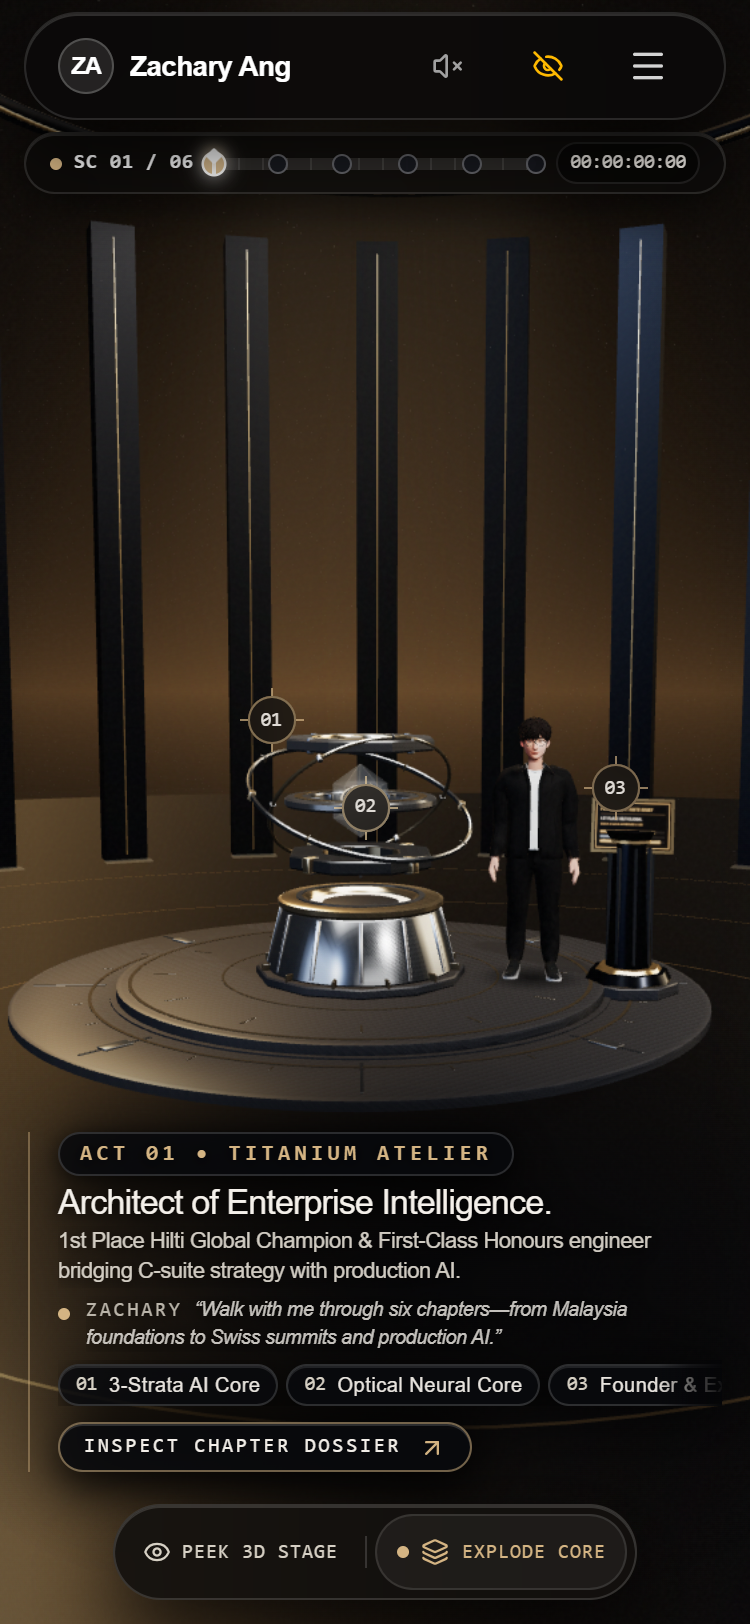
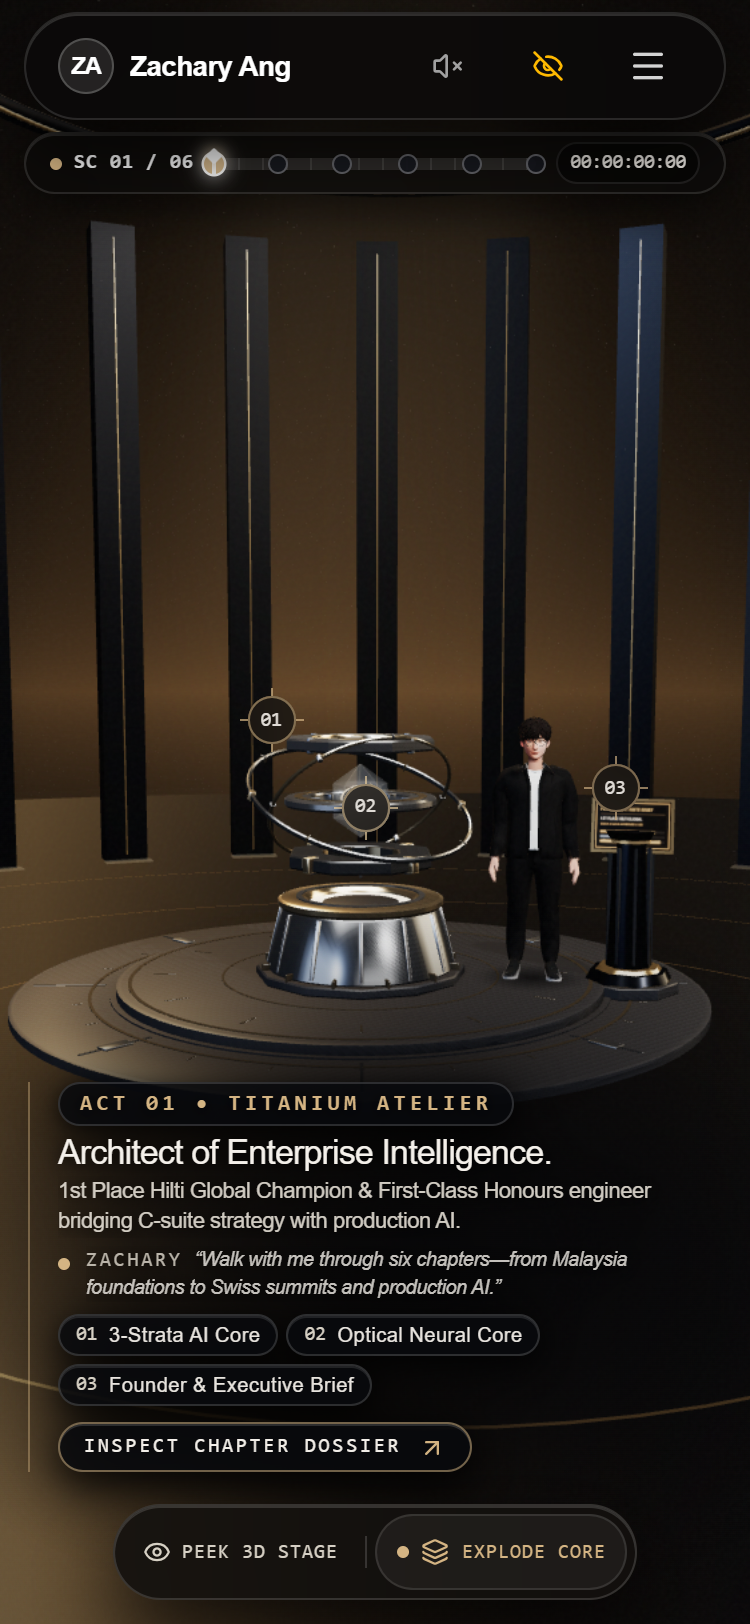
chore(sync): auto-sync ZacharyPortfolio (8 modified in screenshots, src)

diff --git a/src/components/WhisperStageHUD.tsx b/src/components/WhisperStageHUD.tsx
@@ -146,54 +146,48 @@ export const WhisperStageHUD: React.FC<WhisperStageHUDProps> = ({
         </div>
 
         {/* Tactile Numbered Architectural Sub-Target Pills */}
-        <div className="relative max-w-full">
-          <div
-            role="group"
-            aria-label="3D Scene Sub-Target Switcher"
-            className={`flex flex-nowrap sm:flex-wrap items-center gap-1 sm:gap-1.5 pt-0.5 sm:pt-1 pr-8 sm:pr-0 overflow-x-auto sm:overflow-visible max-w-full [scrollbar-width:none] [&::-webkit-scrollbar]:hidden transition-opacity duration-300 ${
-              isInCorridor ? 'opacity-90' : 'opacity-100'
-            }`}
-          >
-            {subTargets.map((target, idx) => {
-              const isSelected = activeSubTargetId === target.id;
-              const indexNum = `0${idx + 1}`;
-              return (
-                <button
-                  key={target.id}
-                  type="button"
-                  data-testid={`whisper-subtarget-${target.id}`}
-                  data-cursor={target.badge}
-                  aria-pressed={isSelected}
-                  onClick={() => onSelectSubTarget(currentAct.actIndex, target.id)}
-                  style={
-                    isSelected
-                      ? {
-                          borderColor: `${currentAct.accentColor}cc`,
-                          backgroundColor: 'rgba(14, 16, 22, 0.92)',
-                        }
-                      : undefined
-                  }
-                  className={`group shrink-0 inline-flex items-center gap-1.5 px-2 py-0.5 sm:px-2.5 sm:py-1 rounded-full text-[10px] sm:text-[11px] backdrop-blur-md transition-all cursor-pointer border ${
-                    isSelected
-                      ? 'text-[#F4F0EA] font-medium shadow-[inset_0_1px_0_rgba(255,255,255,0.16),0_4px_14px_rgba(0,0,0,0.65)]'
-                      : 'bg-[#08090d]/84 text-[#F4F0EA]/95 hover:text-white hover:bg-[#12141c]/92 border-white/15 shadow-[inset_0_1px_0_rgba(255,255,255,0.10),0_4px_12px_rgba(0,0,0,0.5)]'
-                  }`}
+        <div
+          role="group"
+          aria-label="3D Scene Sub-Target Switcher"
+          className={`flex flex-wrap items-center gap-1 sm:gap-1.5 pt-0.5 sm:pt-1 max-w-full transition-opacity duration-300 ${
+            isInCorridor ? 'opacity-90' : 'opacity-100'
+          }`}
+        >
+          {subTargets.map((target, idx) => {
+            const isSelected = activeSubTargetId === target.id;
+            const indexNum = `0${idx + 1}`;
+            return (
+              <button
+                key={target.id}
+                type="button"
+                data-testid={`whisper-subtarget-${target.id}`}
+                data-cursor={target.badge}
+                aria-pressed={isSelected}
+                onClick={() => onSelectSubTarget(currentAct.actIndex, target.id)}
+                style={
+                  isSelected
+                    ? {
+                        borderColor: `${currentAct.accentColor}cc`,
+                        backgroundColor: 'rgba(14, 16, 22, 0.92)',
+                      }
+                    : undefined
+                }
+                className={`group shrink-0 inline-flex items-center gap-1.5 px-2 py-0.5 sm:px-2.5 sm:py-1 rounded-full text-[10px] sm:text-[11px] backdrop-blur-md transition-all cursor-pointer border ${
+                  isSelected
+                    ? 'text-[#F4F0EA] font-medium shadow-[inset_0_1px_0_rgba(255,255,255,0.16),0_4px_14px_rgba(0,0,0,0.65)]'
+                    : 'bg-[#08090d]/84 text-[#F4F0EA]/95 hover:text-white hover:bg-[#12141c]/92 border-white/15 shadow-[inset_0_1px_0_rgba(255,255,255,0.10),0_4px_12px_rgba(0,0,0,0.5)]'
+                }`}
+              >
+                <span
+                  className="font-mono text-[10px]"
+                  style={{ color: isSelected ? currentAct.accentColor : '#d6d0c4' }}
                 >
-                  <span
-                    className="font-mono text-[10px]"
-                    style={{ color: isSelected ? currentAct.accentColor : '#d6d0c4' }}
-                  >
-                    {indexNum}
-                  </span>
-                  <span className="tracking-wide">{target.label}</span>
-                </button>
-              );
-            })}
-          </div>
-          <div
-            aria-hidden="true"
-            className="pointer-events-none absolute inset-y-0 right-0 w-8 bg-gradient-to-l from-[#050507]/95 via-[#050507]/60 to-transparent sm:hidden"
-          />
+                  {indexNum}
+                </span>
+                <span className="tracking-wide">{target.label}</span>
+              </button>
+            );
+          })}
         </div>
 
         {/* Tactile Editorial Dossier Trigger */}

diff --git a/src/test/VisualCapture.test.ts b/src/test/VisualCapture.test.ts
@@ -1075,6 +1075,10 @@ async function verifyRealScreenViaCDP(browserPath: string, targetUrl: string, ou
         const dock = document.querySelector('[data-testid="spatial-stage-control-dock"]');
         const hudRect = hud ? hud.getBoundingClientRect() : null;
         const dockRect = dock ? dock.getBoundingClientRect() : null;
+        const subTargetPills = Array.from(document.querySelectorAll('[data-testid^="whisper-subtarget-"]'));
+        const maxPillRight = subTargetPills.length > 0
+          ? Math.max(...subTargetPills.map((el) => el.getBoundingClientRect().right))
+          : 0;
         document.querySelector('[data-testid="whisper-open-dossier-btn"]')?.click();
         await waitRaf(6);
         const sheet = document.querySelector('[data-testid="slide-over-inspection-sheet"]')?.getBoundingClientRect();
@@ -1113,6 +1117,7 @@ async function verifyRealScreenViaCDP(browserPath: string, targetUrl: string, ou
           sheetLeft: sheet ? sheet.left : null,
           hudBottom: hudRect ? hudRect.bottom : null,
           hudHeight: hudRect ? hudRect.height : null,
+          maxPillRight,
           dockTop: dockRect ? dockRect.top : null,
           backdropTop,
           backdropCoversSheet,
@@ -1569,6 +1574,7 @@ describe('Real Screen Browser Verification & Visual Kinematics', () => {
         expect(results.mobileMetrics.dockTop).not.toBeNull();
         expect(results.mobileMetrics.hudBottom!).toBeLessThanOrEqual(results.mobileMetrics.dockTop!);
         expect(results.mobileMetrics.hudHeight!).toBeLessThanOrEqual(210);
+        expect(results.mobileMetrics.maxPillRight).toBeLessThanOrEqual(375);
         expect(results.mobileMetrics.timelineTrackWidth).toBeGreaterThan(120);
         expect(results.mobileMetrics.sheetHidesWhisperHud).toBe(true);
         expect(results.mobileMetrics.maxHotspotYPercent!).toBeLessThanOrEqual(54);

diff --git a/src/components/CinemaTimelineHUD.tsx b/src/components/CinemaTimelineHUD.tsx
@@ -257,7 +257,7 @@ export const CinemaTimelineHUD: React.FC<CinemaTimelineHUDProps> = ({
               </div>
             </div>
 
-            {/* 6 Sleek Chapter Tick Dots with 32x32px Accessible Touch Wrappers Anchored Along the Track */}
+            {/* 6 Sleek Chapter Tick Dots with 32x44px Mobile / 44x44px sm+ Accessible Touch Hitboxes Anchored Along the Track */}
             {WHISPER_ACTS.map((act) => {
               const isActive = act.sectionId === currentAct.sectionId;
               const pct = (act.actIndex / 5) * 100;
@@ -270,7 +270,7 @@ export const CinemaTimelineHUD: React.FC<CinemaTimelineHUDProps> = ({
                   aria-label={`Jump to Act 0${act.actIndex + 1} ${act.shortCutLabel}`}
                   onClick={() => onSelectChapter(act.sectionId)}
                   style={{ left: `${pct}%` }}
-                  className="group absolute top-1/2 -translate-x-1/2 -translate-y-1/2 z-10 w-8 h-8 flex items-center justify-center rounded-full cursor-pointer focus-visible:outline-none focus-visible:ring-2 focus-visible:ring-[#F4F0EA]/80"
+                  className="group absolute top-1/2 -translate-x-1/2 -translate-y-1/2 z-10 w-8 h-11 sm:w-11 sm:h-11 flex items-center justify-center rounded-full cursor-pointer focus-visible:outline-none focus-visible:ring-2 focus-visible:ring-[#F4F0EA]/80"
                 >
                   <span
                     aria-hidden="true"

diff --git a/src/test/CinemaTimelineHUD.test.tsx b/src/test/CinemaTimelineHUD.test.tsx
@@ -46,7 +46,10 @@ describe('CinemaTimelineHUD & SMPTE Timecode Formatter', () => {
       />
     );
 
-    fireEvent.click(screen.getByTestId('timeline-chapter-vault'));
+    const chapterBtn = screen.getByTestId('timeline-chapter-vault');
+    expect(chapterBtn.className).toContain('h-11');
+    expect(chapterBtn.className).toContain('sm:w-11');
+    fireEvent.click(chapterBtn);
     expect(onSelectChapter).toHaveBeenCalledWith('vault');
   });
 
